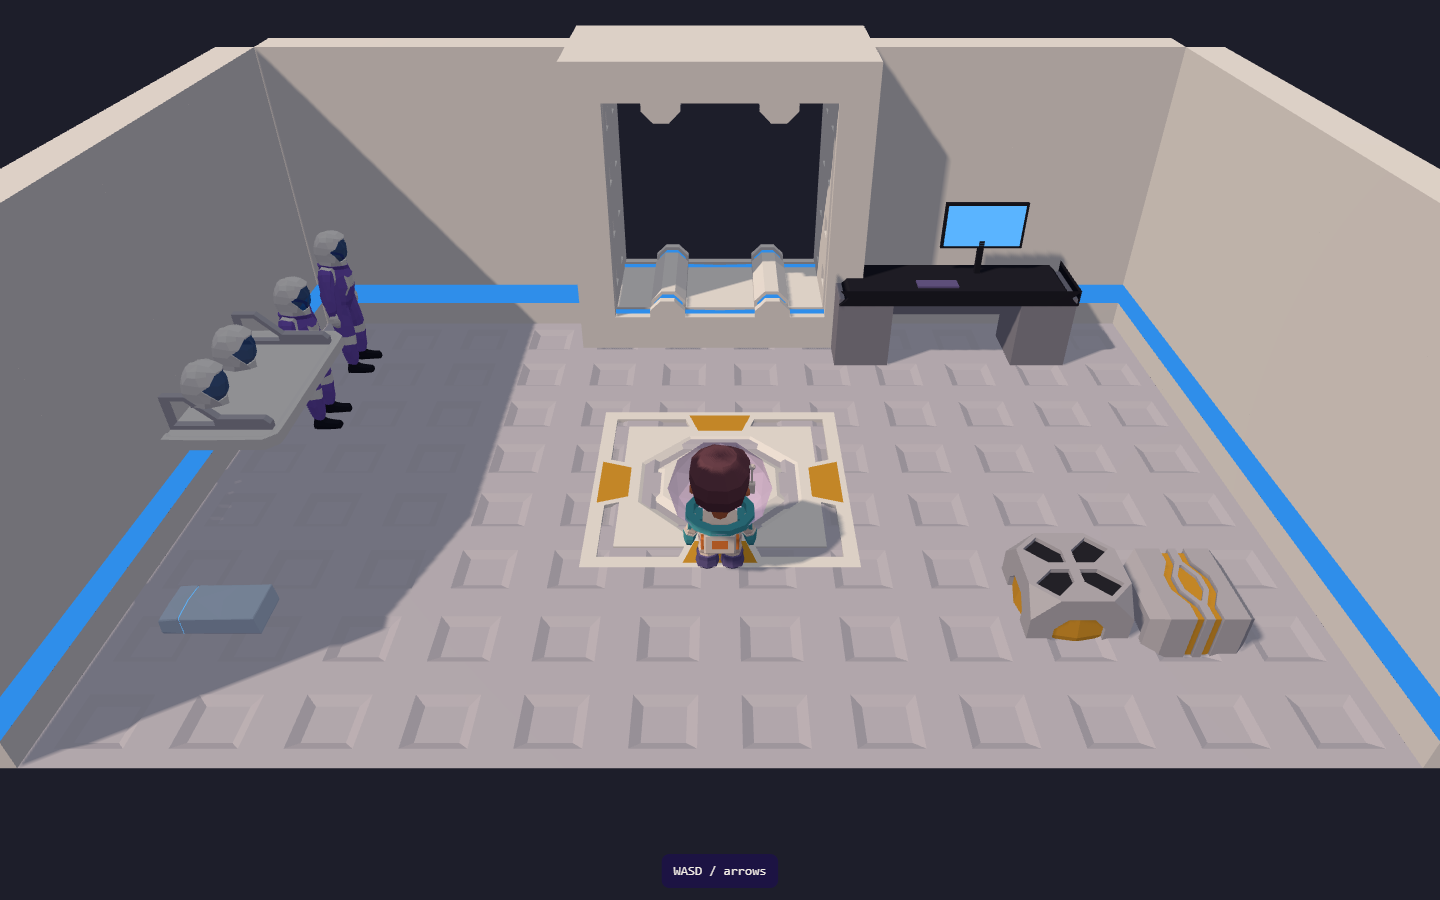
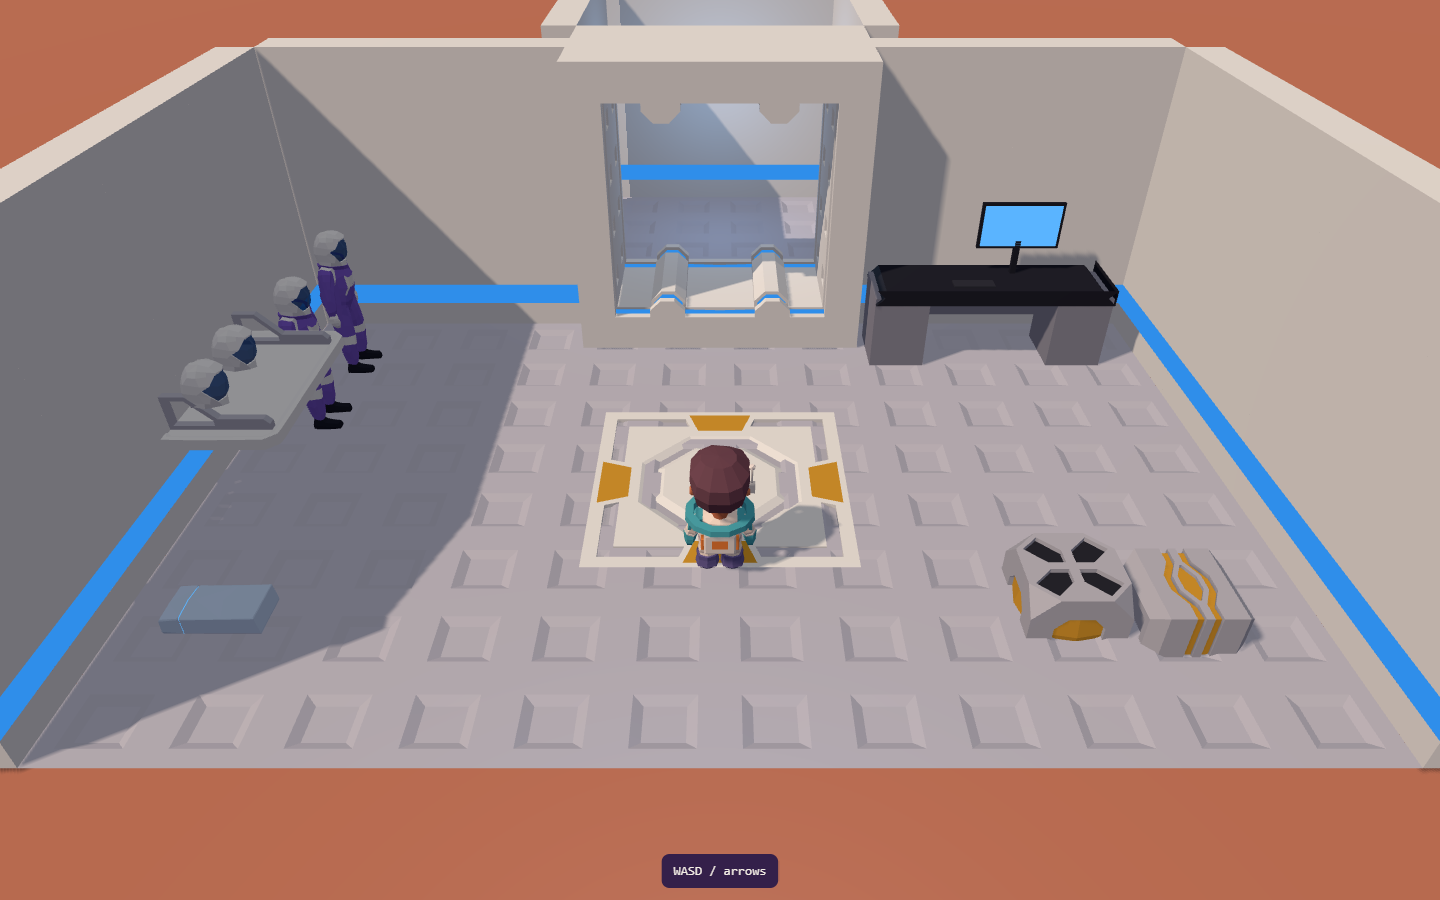
fix(escena): portón del kit con tramo de pasillo detrás, fondo marciano, sin casco adentro, controles táctiles y cámara vertical

diff --git a/ui/src/escena/activos/interiores/salaEstacion.ts b/ui/src/escena/activos/interiores/salaEstacion.ts
@@ -6,7 +6,6 @@ import { ESCALA_ESTACION as E, cargarKitEstacion, pieza, type PiezaEstacion } fr
 import type { PuntoSala } from "./salaKit";
 import { cultivoVeggie, terminal } from "./salaPastel";
 import { dock, estanteBaterias } from "./taller";
-import { marcoPuerta } from "./marcoPuerta";
 import { caja, chaflan, grupo } from "../piezasComunes";
 
 const NEGRO_MESA = new THREE.MeshStandardMaterial({ name: "Desk_Top", color: "#1D1E2A", roughness: 0.55 });
@@ -84,7 +83,7 @@ const PLANOS: Readonly<Record<SalaEstacion, PlanoSala>> = {
       ["Floor_M_2_100", 4.5, 2.5, 0, 0, 0.02],
       ["Cube_1_26", 9.5, 6.0, 0, 0.6], ["Cube_2_27", 10.6, 6.2, 0, 0.6],
     ],
-    propios: [[mesaControl, 2.6, -2.55, 0, 1.0]],
+    propios: [[mesaControl, 3.0, -2.55, 0, 1.0]],
   },
   // Engineering: batteries and the solar console on the north wall, the workbench with its drill, the rover
   // dock on the east wall, gas tanks and the robot arm on the west wall.
@@ -100,7 +99,7 @@ const PLANOS: Readonly<Record<SalaEstacion, PlanoSala>> = {
     propios: [
       [estanteBaterias, -3.6, -2.7, 0, 0.9],
       [mesaControl, -0.2, -2.55, 0, 1.1],
-      [dock, 3.9, 0.7, -Math.PI / 2, 0.9],
+      [dock, 3.9, 0.7, Math.PI / 2, 0.9],
     ],
   },
   // Habitat: bunk on the west wall, meals in the middle with kit chairs, the crew terminal and the Veggie
@@ -137,7 +136,28 @@ export interface Sala3D {
 /** Half sizes in metres. */
 const medio = (p: PlanoSala) => ({ x: (p.ancho * E) / 2, z: (p.fondo * E) / 2 });
 
-export function crearSalaEstacion(sala: SalaEstacion, materiales: Materiales): Sala3D {
+/**
+ * The game furniture (bunk, battery shelf, dock, terminal...) is built with the game materials, ivory and
+ * teal; inside the station it gets the kit's colours instead, so it does not read as pasted in.
+ */
+function materialesEstacion(m: Materiales): Materiales {
+  const copia = (k: keyof Materiales, color: string, extra: Partial<THREE.MeshStandardMaterialParameters> = {}) => {
+    const c = m[k].clone();
+    c.color.set(color);
+    Object.assign(c, extra);
+    return c;
+  };
+  return {
+    ...m,
+    SuitBase: copia("SuitBase", "#F2F0EC"),
+    Accent: copia("Accent", "#2F8EEA"),
+    Boots: copia("Boots", "#2B2C38"),
+    Emissive: copia("Emissive", "#5AB4FF", { emissive: new THREE.Color("#5AB4FF") }),
+  };
+}
+
+export function crearSalaEstacion(sala: SalaEstacion, materialesJuego: Materiales): Sala3D {
+  const materiales = materialesEstacion(materialesJuego);
   const plano = PLANOS[sala];
   const raiz = new THREE.Group();
   raiz.name = `Station_Room_${sala}`;
@@ -175,10 +195,16 @@ export function crearSalaEstacion(sala: SalaEstacion, materiales: Materiales): S
     };
     const suelo = new THREE.Group();
     suelo.name = "Station_Floor";
+    // The rooms stand inside the Mars colony: regolith all around, under the open top.
+    const marte = new THREE.Mesh(new THREE.PlaneGeometry(160, 160), new THREE.MeshStandardMaterial({ name: "Station_Outside", color: "#C97A5E", roughness: 1 }));
+    marte.rotation.x = -Math.PI / 2;
+    marte.position.y = -0.05;
+    marte.receiveShadow = true;
+    raiz.add(marte);
     raiz.add(suelo);
-    for (let x = 0; x < plano.ancho; x += 4) for (let z = 0; z < plano.fondo; z += 4) enKit(pieza(kit, "Floor_L_98", x, z), suelo);
     // A mid grey floor under white walls and furniture: the room gets a base tone and the shadows read.
     const piso = new THREE.MeshStandardMaterial({ name: "Station_Floor", color: "#C2C0CC", roughness: 0.75, metalness: 0 });
+    for (let x = 0; x < plano.ancho; x += 4) for (let z = 0; z < plano.fondo; z += 4) enKit(pieza(kit, "Floor_L_98", x, z), suelo);
     suelo.traverse((o) => { if (o instanceof THREE.Mesh) { o.material = piso; o.castShadow = false; } });
 
     const [norte, sur, oeste, este] = muros.map((mu) => mu.grupo) as [THREE.Group, THREE.Group, THREE.Group, THREE.Group];
@@ -196,9 +222,26 @@ export function crearSalaEstacion(sala: SalaEstacion, materiales: Materiales): S
       enKit(pieza(kit, "Wall_L_long_frame_92", plano.ancho, 1, 0), este);
       enKit(pieza(kit, "Wall_L_long_window_93", plano.ancho, 1, 0), este);
     }
-    // Doorways: the lit frame of the interior pack, centred on the gap in the wall.
+    // Gates straddle the wall line (2 deep, the wall is 0.5), and behind each one a short lit stretch of
+    // corridor (floor, side walls, end wall) shows where it leads instead of a black hole.
     for (const [lado, x] of plano.puertas) {
-      marcoPuerta(lado === "norte" ? norte : sur, (x + 2) * E - m.x, lado === "norte" ? -m.z : m.z, 0, 4 * E);
+      const g = lado === "norte" ? norte : sur;
+      const n = lado === "norte";
+      enKit(pieza(kit, "Gate_L_127", x, n ? -1.25 : plano.fondo - 0.75), g);
+      const z0 = n ? -5.25 : plano.fondo + 0.75; // stub floor tile corner
+      // The stub floor belongs to its wall run, so it hides with it when it is on the camera side.
+      const pisoTramo = pieza(kit, "Floor_L_98", x, z0);
+      pisoTramo.traverse((o) => { if (o instanceof THREE.Mesh) o.material = piso; });
+      enKit(pisoTramo, g);
+      for (const dz of [0, 2]) {
+        enKit(pieza(kit, "Wall_L_66", x, z0 + dz + 2, 2), g);
+        enKit(pieza(kit, "Wall_L_66", x + 4, z0 + dz, 0), g);
+      }
+      const zFin = n ? z0 : z0 + 4;
+      for (const dx of [0, 2]) enKit(n ? pieza(kit, "Wall_L_66", x + dx, zFin, 1) : pieza(kit, "Wall_L_66", x + dx + 2, zFin, 3), g);
+      const luz = new THREE.PointLight("#9CCBFF", 3, 5, 2);
+      luz.position.set((x + 2) * E - m.x, 1.8, (z0 + 2) * E - m.z);
+      raiz.add(luz);
     }
 
     const props = new THREE.Group();
@@ -239,6 +282,7 @@ export function puntosSalaEstacion(sala: SalaEstacion): PuntoSala[] {
 
 /** Lights of an open-top room: a low fill and one warm key from the side, so walls and props cast shadows. */
 export const AMBIENTE_ESTACION = {
-  fondoEscena: "#1D1E2A",
+  // Martian daytime sky, the same caramel horizon as outdoors.
+  fondoEscena: "#F2CDB0",
   luz: { color: "#FFE9D2", intensidad: 2.1, hemiCielo: "#EEF0FA", hemiSuelo: "#6E6985", hemi: 1.15 },
 } as const;

diff --git a/ui/src/escena/InteriorBase.tsx b/ui/src/escena/InteriorBase.tsx
@@ -1,7 +1,45 @@
 import { useEffect, useRef, useState } from "react";
 import { useT } from "../i18n";
 import type { CalidadGrafica } from "../juego/ajustes";
-import { montarSalaJugable, type EspacioJugable } from "./salaJugable";
+import { montarSalaJugable, type EspacioJugable, type SalaJugable } from "./salaJugable";
+
+/** Stick radius in px: how far the knob travels from the centre. */
+const RADIO_STICK = 44;
+
+/**
+ * Touch stick for phones and tablets: drag from the base; the offset over `RADIO_STICK` is the direction.
+ * Presentational: it only reports the direction.
+ */
+function Stick({ onEje }: { onEje: (x: number, z: number) => void }) {
+  const [perilla, setPerilla] = useState({ x: 0, y: 0 });
+  const centro = useRef<{ x: number; y: number; id: number } | null>(null);
+  const soltar = () => {
+    centro.current = null;
+    setPerilla({ x: 0, y: 0 });
+    onEje(0, 0);
+  };
+  return (
+    <div aria-hidden="true"
+      style={{ position: "absolute", left: 24, bottom: 24, width: RADIO_STICK * 2 + 32, height: RADIO_STICK * 2 + 32, borderRadius: "50%", background: "rgba(29,30,42,0.35)", touchAction: "none" }}
+      onPointerDown={(e) => {
+        const r = e.currentTarget.getBoundingClientRect();
+        centro.current = { x: r.left + r.width / 2, y: r.top + r.height / 2, id: e.pointerId };
+        e.currentTarget.setPointerCapture(e.pointerId);
+      }}
+      onPointerMove={(e) => {
+        const c = centro.current;
+        if (!c || c.id !== e.pointerId) return;
+        let dx = e.clientX - c.x, dy = e.clientY - c.y;
+        const d = Math.hypot(dx, dy);
+        if (d > RADIO_STICK) { dx *= RADIO_STICK / d; dy *= RADIO_STICK / d; }
+        setPerilla({ x: dx, y: dy });
+        onEje(dx / RADIO_STICK, dy / RADIO_STICK);
+      }}
+      onPointerUp={soltar} onPointerCancel={soltar}>
+      <div style={{ position: "absolute", left: "50%", top: "50%", width: 48, height: 48, borderRadius: "50%", background: "rgba(242,240,236,0.9)", transform: `translate(calc(-50% + ${perilla.x}px), calc(-50% + ${perilla.y}px))` }} />
+    </div>
+  );
+}
 
 /**
  * Inside the base: the airlock, the corridor, the workshop and the habitat, walked with the kid
@@ -32,6 +70,8 @@ export function InteriorBase({ calidad, onSalir }: InteriorBaseProps) {
   const canvasRef = useRef<HTMLCanvasElement>(null);
   const [lugar, setLugar] = useState<Lugar>({ espacio: "esclusa", desde: "base" });
   const [cercano, setCercano] = useState<string | null>(null);
+  const [tactil] = useState(() => typeof matchMedia === "function" && matchMedia("(pointer: coarse)").matches);
+  const sala = useRef<SalaJugable | null>(null);
   const salir = useRef(onSalir);
   salir.current = onSalir;
 
@@ -39,7 +79,7 @@ export function InteriorBase({ calidad, onSalir }: InteriorBaseProps) {
     const canvas = canvasRef.current;
     if (!canvas) return;
     setCercano(null);
-    const sala = montarSalaJugable(canvas, lugar.espacio, {
+    const montada = montarSalaJugable(canvas, lugar.espacio, {
       calidad,
       desde: lugar.desde,
       alCercano: setCercano,
@@ -48,7 +88,11 @@ export function InteriorBase({ calidad, onSalir }: InteriorBaseProps) {
         else setLugar({ espacio: destino as EspacioJugable, desde: lugar.espacio });
       },
     });
-    return () => sala.quitar();
+    sala.current = montada;
+    return () => {
+      sala.current = null;
+      montada.quitar();
+    };
   }, [lugar, calidad]);
 
   const verbo = verboInterior(cercano);
@@ -58,8 +102,18 @@ export function InteriorBase({ calidad, onSalir }: InteriorBaseProps) {
       {verbo && (
         <div className="fc-cara fc-chico" role="status"
           style={{ position: "absolute", left: "50%", bottom: "18%", transform: "translateX(-50%)", padding: "0.4rem 0.9rem", pointerEvents: "none", whiteSpace: "nowrap" }}>
-          <span>[E] {t(verbo)}</span>
+          <span>{tactil ? t(verbo) : `[E] ${t(verbo)}`}</span>
         </div>
+      )}
+      {tactil && (
+        <>
+          <Stick onEje={(x, z) => sala.current?.fijarEje(x, z)} />
+          <button type="button" className="fc-cara" aria-label={t("ui.interaccion.interactuar")} disabled={!verbo}
+            onClick={() => sala.current?.usar()}
+            style={{ position: "absolute", right: 28, bottom: 36, width: 76, height: 76, borderRadius: "50%", fontWeight: 700, opacity: verbo ? 1 : 0.5 }}>
+            E
+          </button>
+        </>
       )}
     </div>
   );

diff --git a/ui/src/escena/salaJugable.ts b/ui/src/escena/salaJugable.ts
@@ -62,6 +62,10 @@ export interface OpcionesSalaJugable {
 }
 
 export interface SalaJugable {
+  /** Touch stick direction (screen right, screen down), each -1..1; (0, 0) stops. */
+  fijarEje(x: number, z: number): void;
+  /** Same as pressing E. */
+  usar(): void;
   quitar(): void;
 }
 
@@ -94,6 +98,9 @@ export function montarSalaJugable(canvas: HTMLCanvasElement, sala: EspacioJugabl
   const llegada = (puertas.find((d) => d.destino === o.desde) ?? puertas[0]!).entrada;
   nino.grupo.position.set(llegada.x, piso, llegada.z);
   nino.grupo.traverse((x) => { if (x instanceof THREE.Mesh) x.castShadow = true; });
+  // Inside the pressurised base the kid takes the helmet off (from above, its tinted glass also hid his hair).
+  const casco = nino.grupo.getObjectByName("casco");
+  if (casco) casco.visible = false;
   escena.add(nino.grupo);
 
   // Floor ring under the thing within reach.
@@ -109,6 +116,13 @@ export function montarSalaJugable(canvas: HTMLCanvasElement, sala: EspacioJugabl
     const w = canvas.clientWidth || innerWidth, h = canvas.clientHeight || innerHeight;
     renderer.setSize(w, h, false);
     camara.aspect = w / h;
+    // Keep the horizontal view of a 16:10 screen on narrow (portrait) ones, up to 85 degrees vertical.
+    if (esEstacion(sala) || sala === "pasillo") {
+      const base = sala === "pasillo" ? 62 : 50;
+      const horizontal = Math.atan(Math.tan(THREE.MathUtils.degToRad(base / 2)) * 1.6);
+      const vertical = THREE.MathUtils.radToDeg(2 * Math.atan(Math.tan(horizontal) / camara.aspect));
+      camara.fov = THREE.MathUtils.clamp(vertical, base, 85);
+    }
     camara.updateProjectionMatrix();
   };
   ajustar();
@@ -150,6 +164,8 @@ export function montarSalaJugable(canvas: HTMLCanvasElement, sala: EspacioJugabl
   canvas.addEventListener("pointerup", alSoltarPuntero);
   canvas.addEventListener("pointercancel", alSoltarPuntero);
 
+  // Touch stick (`fijarEje`): -1..1 on each axis, screen right and screen down; adds to the keys.
+  const tactil = { x: 0, z: 0 };
   const eje = (pos: string[], neg: string[]) => (pos.some((k) => teclas.has(k)) ? 1 : 0) - (neg.some((k) => teclas.has(k)) ? 1 : 0);
   const p = nino.grupo.position;
   let giro = llegada.giro;
@@ -167,8 +183,8 @@ export function montarSalaJugable(canvas: HTMLCanvasElement, sala: EspacioJugabl
   let t = 0;
 
   function mover(dt: number): boolean {
-    let dx = eje(["KeyD", "ArrowRight"], ["KeyA", "ArrowLeft"]);
-    let dz = eje(["KeyS", "ArrowDown"], ["KeyW", "ArrowUp"]);
+    let dx = THREE.MathUtils.clamp(eje(["KeyD", "ArrowRight"], ["KeyA", "ArrowLeft"]) + tactil.x, -1, 1);
+    let dz = THREE.MathUtils.clamp(eje(["KeyS", "ArrowDown"], ["KeyW", "ArrowUp"]) + tactil.z, -1, 1);
     if (dentroTubo) {
       // Camera-relative: up is "forward along the view", right is "to the screen right".
       const avance = -dz, lado = dx;
@@ -233,7 +249,10 @@ export function montarSalaJugable(canvas: HTMLCanvasElement, sala: EspacioJugabl
     if (esEstacion(sala)) {
       // From above and behind; the wall runs facing the camera hide, so the room reads like the sheets.
       const fx = Math.sin(rumbo + giroManual), fz = Math.cos(rumbo + giroManual);
-      camara.position.set(p.x - fx * 6.2, 5.6, p.z - fz * 6.2);
+      // Portrait: higher and closer, looking more down, so the room fills the tall screen.
+      const vertical = camara.aspect < 1;
+      const atrasSala = vertical ? 4.2 : 6.2, alto = vertical ? 7.8 : 5.6;
+      camara.position.set(p.x - fx * atrasSala, alto, p.z - fz * atrasSala);
       camara.lookAt(p.x + fx * 0.8, 0.6, p.z + fz * 0.8);
       for (const m of muros) m.grupo.visible = -(m.normal[0] * fx + m.normal[1] * fz) < 0.35;
     } else if (dentroTubo) {
@@ -268,6 +287,14 @@ export function montarSalaJugable(canvas: HTMLCanvasElement, sala: EspacioJugabl
   if (!document.hidden) renderer.setAnimationLoop(cuadro);
 
   return {
+    fijarEje(x, z) {
+      tactil.x = x;
+      tactil.z = z;
+    },
+    usar() {
+      alBajar(new KeyboardEvent("keydown", { code: "KeyE" }));
+      teclas.delete("KeyE");
+    },
     quitar() {
       renderer.setAnimationLoop(null);
       document.removeEventListener("visibilitychange", alVisibilidad);
